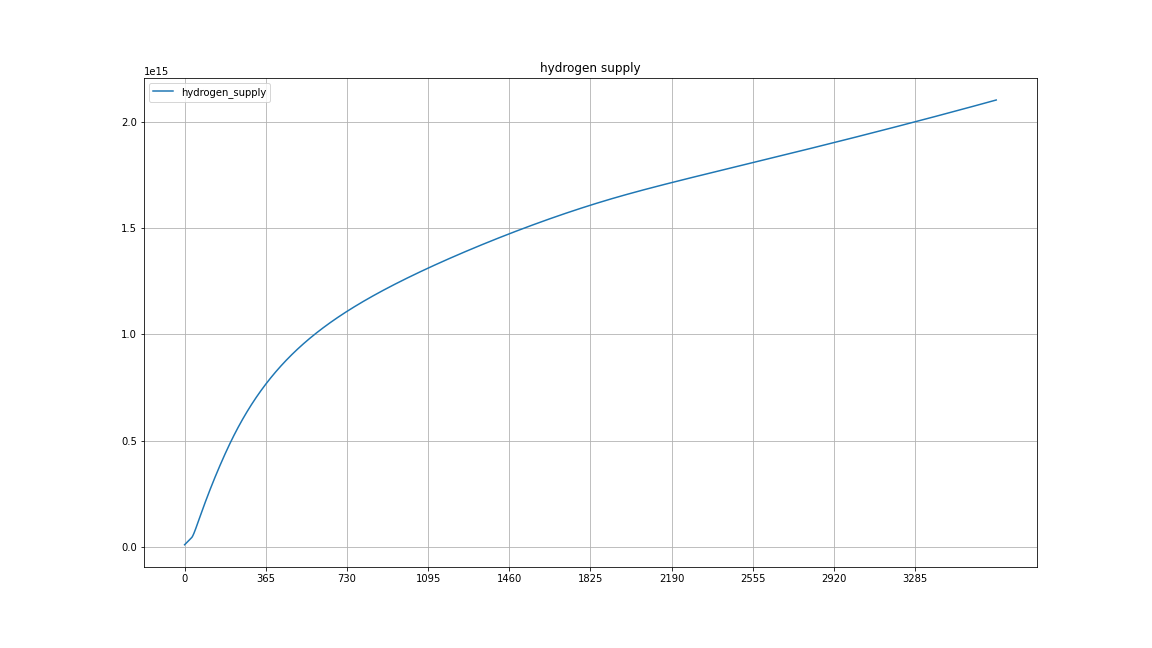
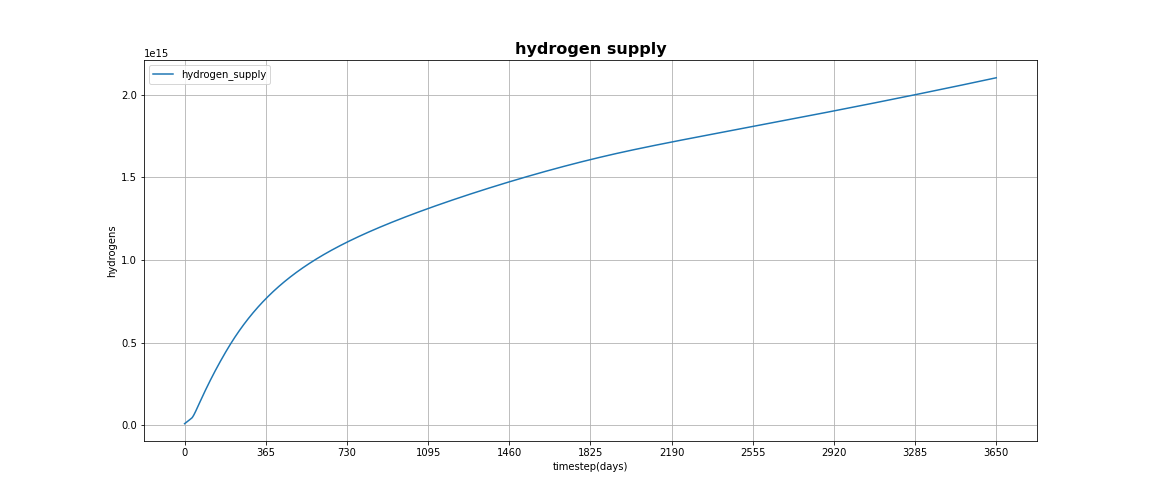
fix typos, add plots images

diff --git a/bostrom_simulation/utils/plots.py b/bostrom_simulation/utils/plots.py
@@ -67,7 +67,7 @@ def gboot_price_plot(df, title='gboot price and validators revenue', figsize=_fi
 def cyberlinks_per_day_plot(df, title='cyberlinks per day', figsize=_figsize):
     ax1 = df.plot(y=['cyberlinks_per_day', 'volt_supply', 'volt_liquid_supply'], figsize=figsize, xticks=_xticks,
                   style={'cyberlinks_per_day': 'r'}, grid=True)
-    ax1.set(xlabel="timestep", ylabel="cyberlinks | volts")
+    ax1.set(xlabel=_xlabel, ylabel="cyberlinks | volts")
     ax1.set_title(title, size=16, fontweight="bold")
     plt.savefig(path + title.replace(' ', '_') + '.png')
     plt.show()
@@ -82,6 +82,7 @@ def cyberlinks_count_plot(df, title='cyberlinks count', figsize=_figsize):
     # df.plot.line(ax=ax2, y=['ampere_supply', 'ampere_liquid_supply'], figsize=figsize, xticks=range(0, 3650, 365),
     #                   grid=True)
     # # plt.legend(bbox_to_anchor=(1.0, 1.0))
+    ax1.set(xlabel=_xlabel, ylabel="cyberlinks")
     ax1.set_title(title, size=16, fontweight="bold")
     plt.savefig(path + title.replace(' ', '_') + '.png')
     plt.show()
